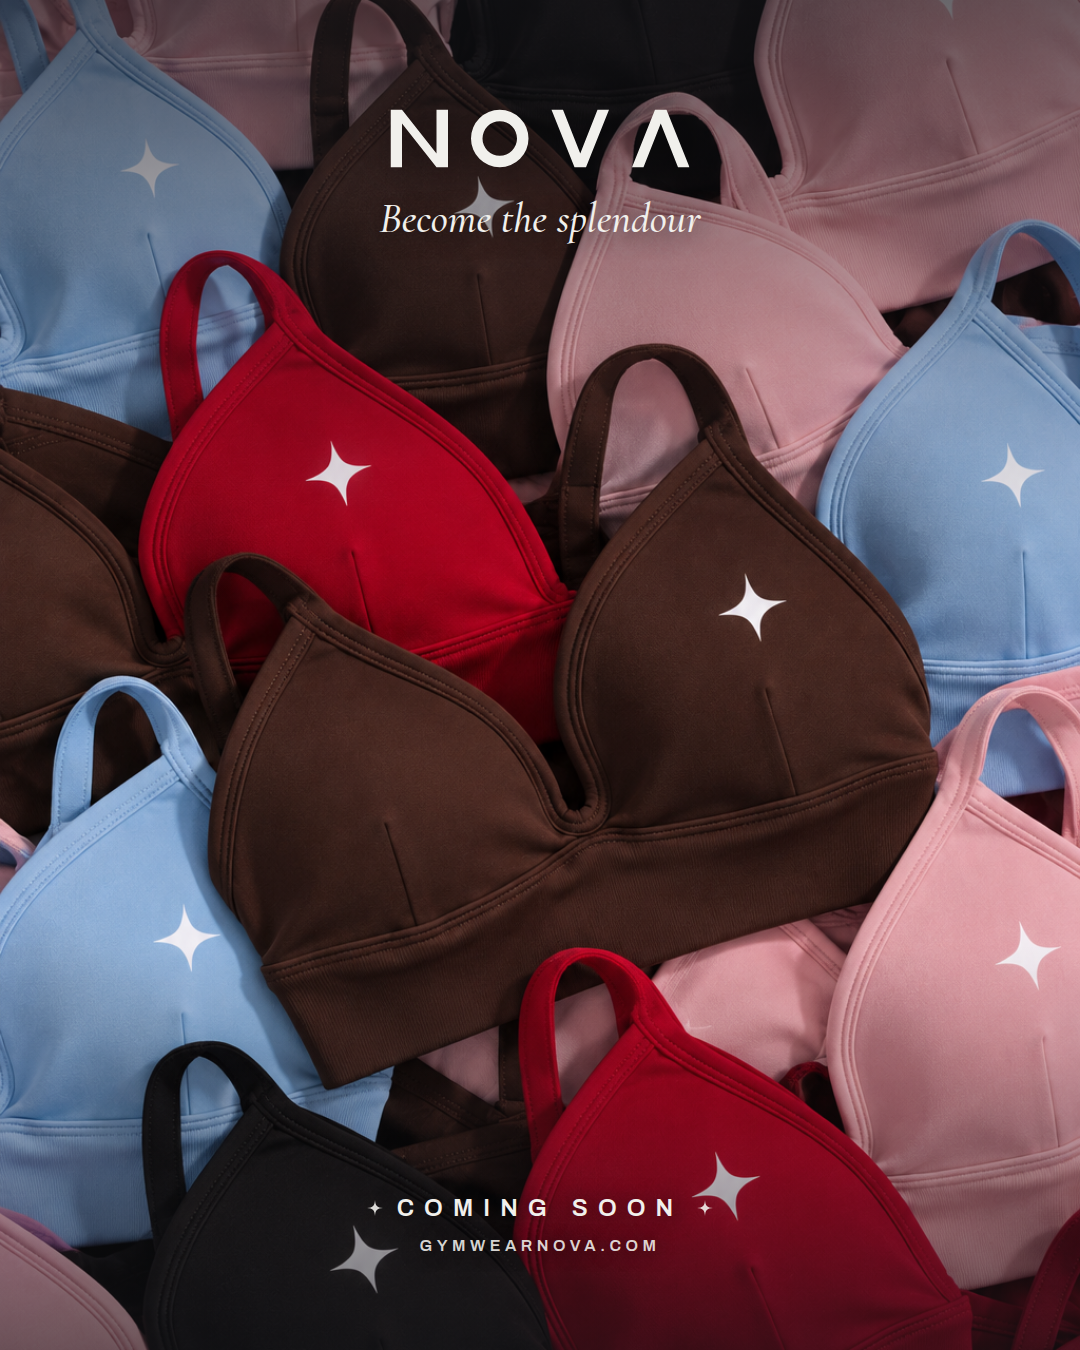
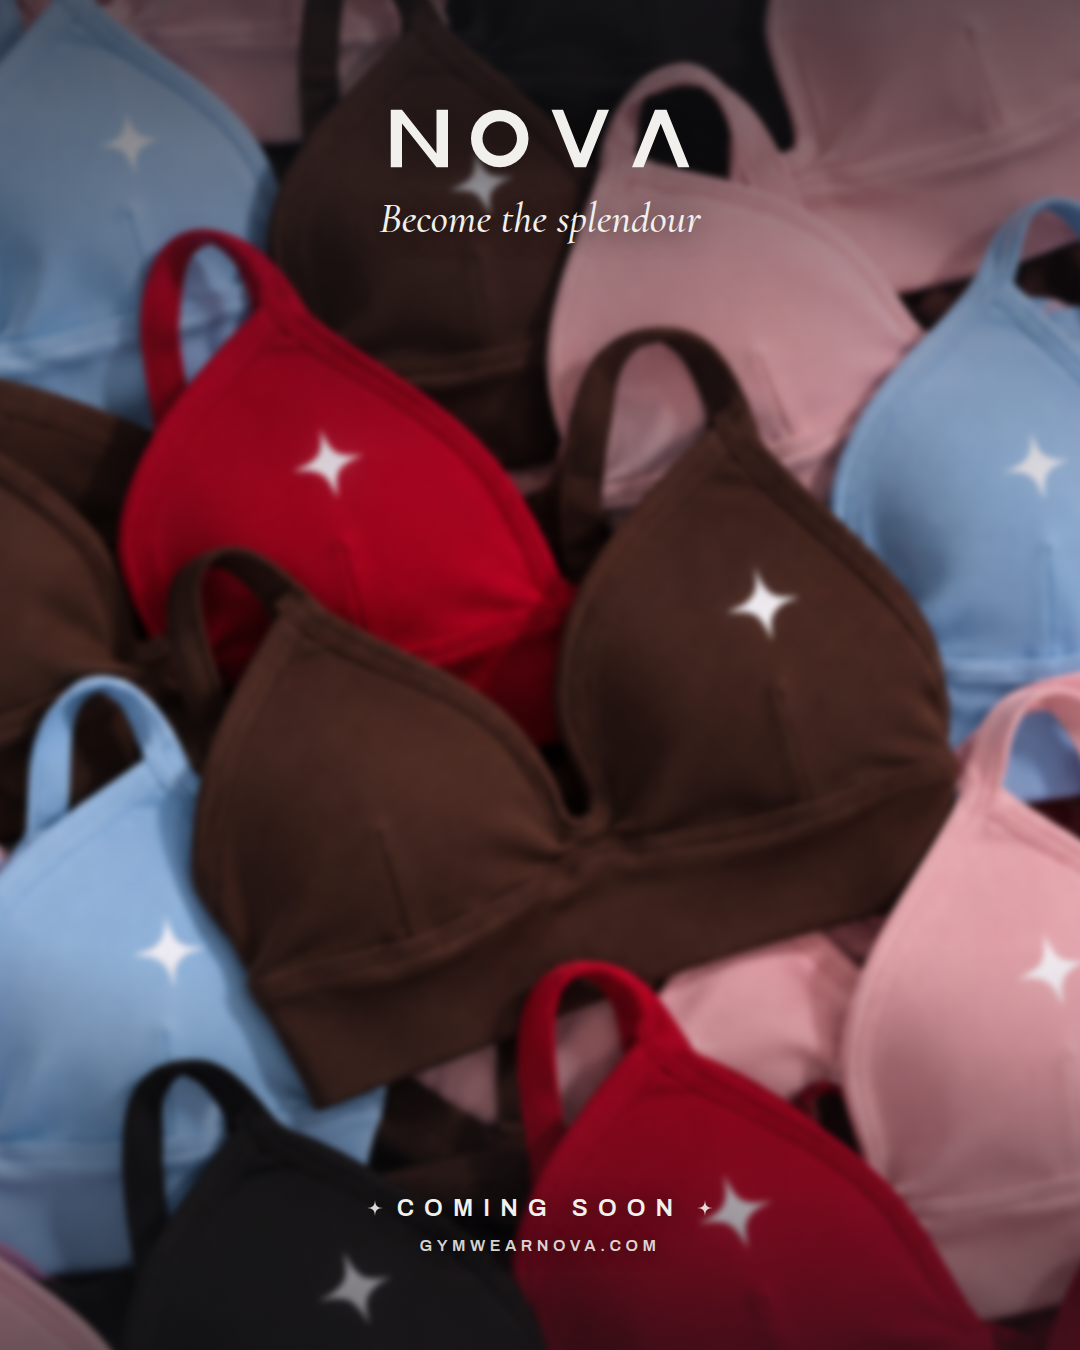
Teaser tissu lisse : léger flou de l'arrière-plan (texte net conservé)
Claude-Session: https://claude.ai/code/session_01QdK1NvWgfR3RD8E4YCMp1a

diff --git a/nova-post-teaser-comingsoon-3.html b/nova-post-teaser-comingsoon-3.html
@@ -7,11 +7,12 @@
   :root{--carbone:#141519;--craie:#F1F0EC;--sable:#D9B4A7;
         --sans:'Archivo',Helvetica,Arial,sans-serif;--serif:'Cormorant Garamond',Georgia,serif}
   html,body{background:#141519}
-  .post{position:absolute;top:0;left:0;width:1080px;height:1350px;overflow:hidden;font-family:var(--sans);
-         background-image:url('nova-brassieres-lisses-pile.png');background-size:cover;background-position:center 50%;display:flex}
-  .scrimT{position:absolute;left:0;right:0;top:0;height:46%;
+  .post{position:absolute;top:0;left:0;width:1080px;height:1350px;overflow:hidden;font-family:var(--sans);display:flex}
+  .bg{position:absolute;inset:0;background-image:url('nova-brassieres-lisses-pile.png');background-size:cover;background-position:center 50%;
+       filter:blur(3px);transform:scale(1.05);z-index:0}
+  .scrimT{position:absolute;left:0;right:0;top:0;height:46%;z-index:1;
            background:linear-gradient(to bottom, rgba(20,21,25,.62) 0%, rgba(20,21,25,.16) 62%, transparent 100%)}
-  .scrimB{position:absolute;left:0;right:0;bottom:0;height:30%;
+  .scrimB{position:absolute;left:0;right:0;bottom:0;height:30%;z-index:1;
            background:linear-gradient(to top, rgba(20,21,25,.58) 0%, rgba(20,21,25,.10) 76%, transparent 100%)}
   .in{position:relative;z-index:2;flex:1;display:flex;flex-direction:column;align-items:center;
        justify-content:space-between;text-align:center;padding:104px 90px 96px}
@@ -36,6 +37,7 @@
   <symbol id="lg-spark" viewBox="0 0 100 100"><path d="M50 0C53 38 62 47 100 50 62 53 53 62 50 100 47 62 38 53 0 50 38 47 47 38 50 0Z"/></symbol>
 </defs></svg>
 <div class="post">
+  <div class="bg"></div>
   <div class="scrimT"></div><div class="scrimB"></div>
   <div class="in">
     <div class="top">
